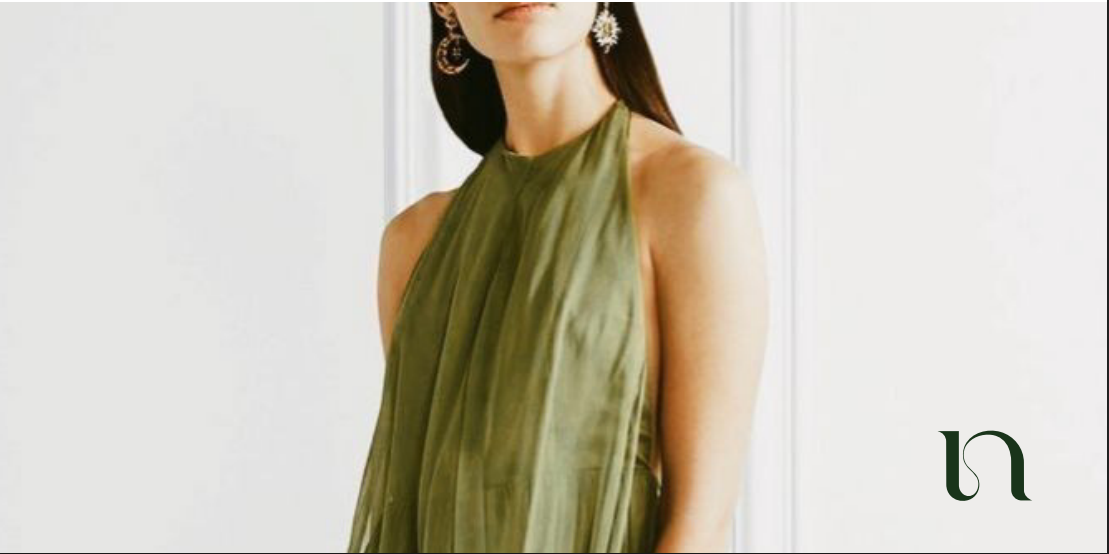
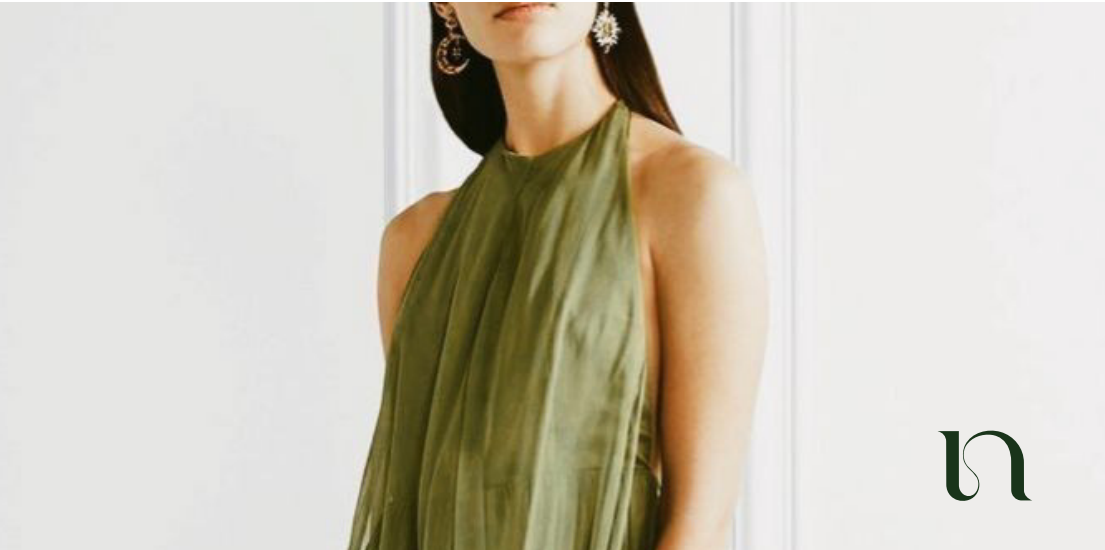
fix element and sizes-css

diff --git a/src/styles/base.css b/src/styles/base.css
@@ -136,12 +136,16 @@ fieldset { border: none; margin: 0; padding: 0; }
   transition: background 0.2s ease, color 0.2s ease, border-color 0.2s ease;
 }
 .btn:hover { background: var(--nd-green-hover); border-color: var(--nd-green-hover); }
+.btn:active:not(.btn--ghost):not(.btn--outline),
+.btn:focus:not(.btn--ghost):not(.btn--outline) { color: var(--nd-white); }
 .btn:disabled { opacity: 0.5; cursor: not-allowed; }
 .btn--primary { background: var(--nd-green); color: var(--nd-white); }
 .btn--outline { background: transparent; color: var(--nd-green); }
 .btn--outline:hover { background: var(--nd-green); color: var(--nd-white); }
 .btn--ghost { background: transparent; border-color: var(--nd-border); color: var(--nd-text); }
-.btn--ghost:hover { border-color: var(--nd-green); }
+.btn--ghost:hover,
+.btn--ghost:active,
+.btn--ghost:focus { background: transparent; border-color: var(--nd-green); color: var(--nd-text); }
 .btn--sm { padding: 0.55em 1.1em; font-size: 0.72rem; }
 .btn--block { width: 100%; }
 .btn--danger { background: var(--nd-danger); border-color: var(--nd-danger); }

diff --git a/src/styles/account.css b/src/styles/account.css
@@ -17,6 +17,14 @@
 }
 .account-section h2 { font-size: 1.05rem; margin-bottom: 1.1em; }
 
+/* Profile page cards: A5 paper width (148mm), centered, height follows content */
+.account-page--profile .account-section {
+  width: 148mm;
+  max-width: 100%;
+  background: var(--nd-white);
+  margin: 0 auto 1.5rem;
+}
+
 .account-detail-list { display: flex; flex-direction: column; gap: 0.85em; }
 .account-detail-list p {
   display: flex;

diff --git a/src/styles/home.css b/src/styles/home.css
@@ -15,6 +15,7 @@
 .homepage-hero__content h1 { margin-bottom: 0.4em; }
 .homepage-hero__content p { color: var(--nd-text-muted); max-width: 32rem; margin-bottom: 1.75em; }
 .homepage-hero__image { aspect-ratio: 4 / 3; border-radius: var(--nd-radius-lg); }
+.homepage-hero__image img { object-position: center center; }
 
 .homepage-curation {
   max-width: var(--nd-container);

diff --git a/src/styles/product.css b/src/styles/product.css
@@ -73,6 +73,7 @@
   padding: 1.5rem;
   position: sticky;
   top: 1.5rem;
+  background: var(--nd-white);
 }
 .shop-sidebar__section { margin-bottom: 2rem; }
 .shop-sidebar__section:last-child { margin-bottom: 0; }
